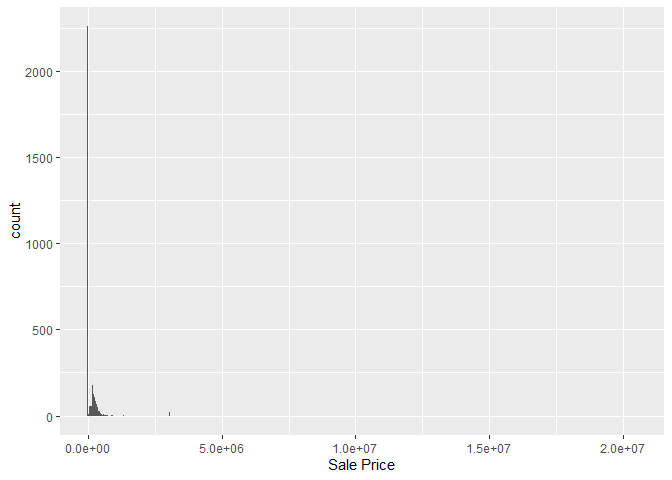
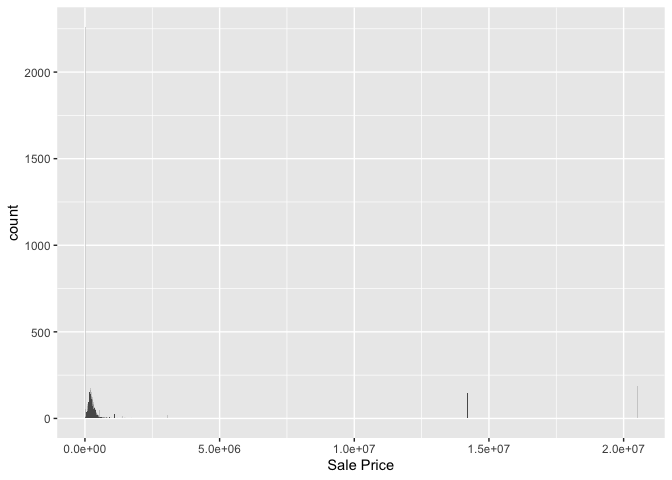
Pushing work for lab 2

diff --git a/README.md b/README.md
@@ -152,25 +152,52 @@ sold. The range of this variable is between 2017-07-03 and 2022-08-31
 Sale Price (Numeric): This variable describes the amount the house was
 sold in USD. The range of this variable is between 0 and 20,500,000.
 
-Multi Sale (Character): Indicates multiple sales for the parcel.
+Multi Sale (Character): Indicates whether the parcel has multiple sales
+associated with it. This variable contains “Yes” or “No” values, though
+more detailed levels would need further investigation.
 
-Year Built (Numeric): Year the property was built.
+Year Built (Numeric): Range: From 0 (which seems like an error or
+placeholder) to 2022. Filter out invalid years if needed. Description:
+The range of years when properties were built spans from 1880 (after
+filtering invalid data) to 2022.
 
-Acres (Numeric): Lot size in acres.
+Acres (Numeric): Range: From 0.0000 to 12.0120 acres. Description: Lot
+sizes range from small parcels (0 acres) to large estates (12 acres).
 
-Total Living Area (Numeric): Total living space in square feet.
+Total Living Area (Numeric): Range: From 0 (possible data issue or very
+small homes) to 6007 square feet. Description: The living area ranges
+from 0 to 6007 square feet, with most properties falling between 1095
+and 1792 square feet.
 
-Bedrooms (Numeric): Number of bedrooms.
+Bedrooms (Numeric): Range: From 0 (no bedroom) to 10 bedrooms.
+Description: The number of bedrooms ranges from 0 (indicating possibly
+non-residential or studio properties) to 10, with most homes having 3 to
+4 bedrooms.
 
-Finished Basement Area (Numeric): Finished area in the basement.
+Finished Basement Area (Numeric): Range: From 10 square feet (indicating
+very little finished area) to 6496 square feet. Description: Finished
+basement areas range from 10 to 6496 square feet, with most properties
+having between 474 and 1011 square feet.
 
-Lot Area (Numeric): Lot area in square feet.
+Lot Area (Numeric): Range: From 0 square feet (possibly indicating
+missing data) to 523,228 square feet. Description: Lot sizes vary
+significantly, from 0 to 523,228 square feet, with typical lot sizes
+ranging from 6553 to 12,088 square feet.
 
-AC (Character): Air conditioning status.
+AC (Character): Description: This variable likely indicates whether air
+conditioning is present or absent (e.g., “Yes”/“No” or other similar
+categories), but the summary table does not show specific values. You’ll
+need to check the unique values for further clarification.
 
-FirePlace (Character): Fireplace information.
+FirePlace (Character): Description: Indicates the presence or absence of
+a fireplace. Similar to the “AC” variable, the summary does not provide
+specific values, but you could describe it based on whether fireplaces
+are present.
 
-Neighborhood (Factor): Neighborhood in Ames.
+Neighborhood (Factor): Description: A factor variable with multiple
+levels indicating different neighborhoods in Ames. The summary shows
+some of the largest neighborhoods like North Ames (854 observations) and
+College Creek (652 observations).
 
 2.  Our main variable of special interest in this dataset is the sale
     price of the homes
@@ -250,3 +277,57 @@ shows that as living area increases, the sale price generally rises.
 Observations: Larger living spaces contribute significantly to higher
 property values, confirming that property size is a strong indicator of
 sale price.
+
+Shivansh:
+
+``` r
+acres_bedrooms_data <- filter(ames, Acres > 0, Bedrooms > 0)
+
+ggplot(data = acres_bedrooms_data, aes(x = Acres, y = Bedrooms)) +
+  geom_point() +
+  geom_smooth(method = "lm", col = "blue")
+```
+
+    ## `geom_smooth()` using formula = 'y ~ x'
+
+![](README_files/figure-gfm/unnamed-chunk-5-1.png)<!-- -->
+
+``` r
+  labs(title = "Relationship between Acres and Bedrooms",
+       x = "Acres",
+       y = "Number of Bedrooms")
+```
+
+    ## $x
+    ## [1] "Acres"
+    ## 
+    ## $y
+    ## [1] "Number of Bedrooms"
+    ## 
+    ## $title
+    ## [1] "Relationship between Acres and Bedrooms"
+    ## 
+    ## attr(,"class")
+    ## [1] "labels"
+
+``` r
+range(acres_bedrooms_data$Acres)
+```
+
+    ## [1] 0.001 4.650
+
+``` r
+range(acres_bedrooms_data$Bedrooms)
+```
+
+    ## [1]  1 10
+
+Analysis:
+
+“Acres” and “Bedrooms” show a positive correlation, but the relationship
+is not extremely strong due to the wide variance at lower acre sizes.
+While larger lots generally have more bedrooms, the size of the lot is
+not the sole determinant of the number of bedrooms, especially for
+properties with less than 1 acre. The property’s style (e.g.,
+single-family home versus multi-family home) or the neighborhood, might
+influence the number of bedrooms independent of acreage.
